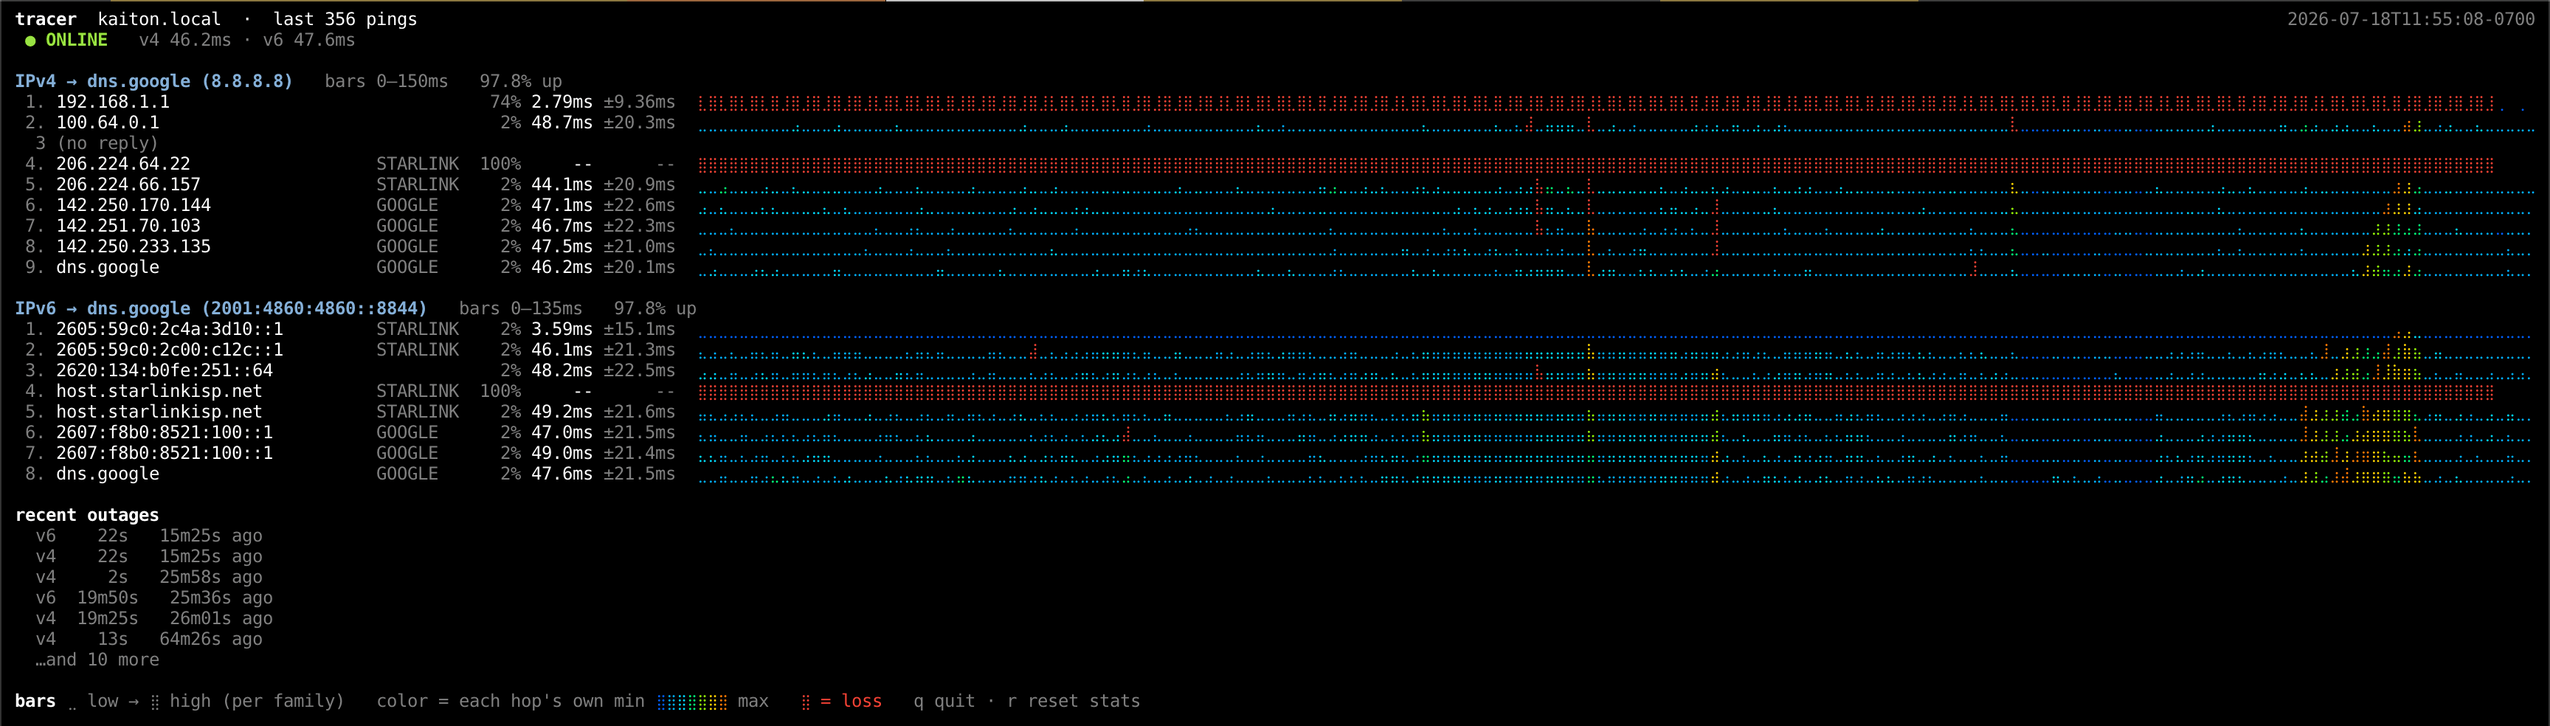
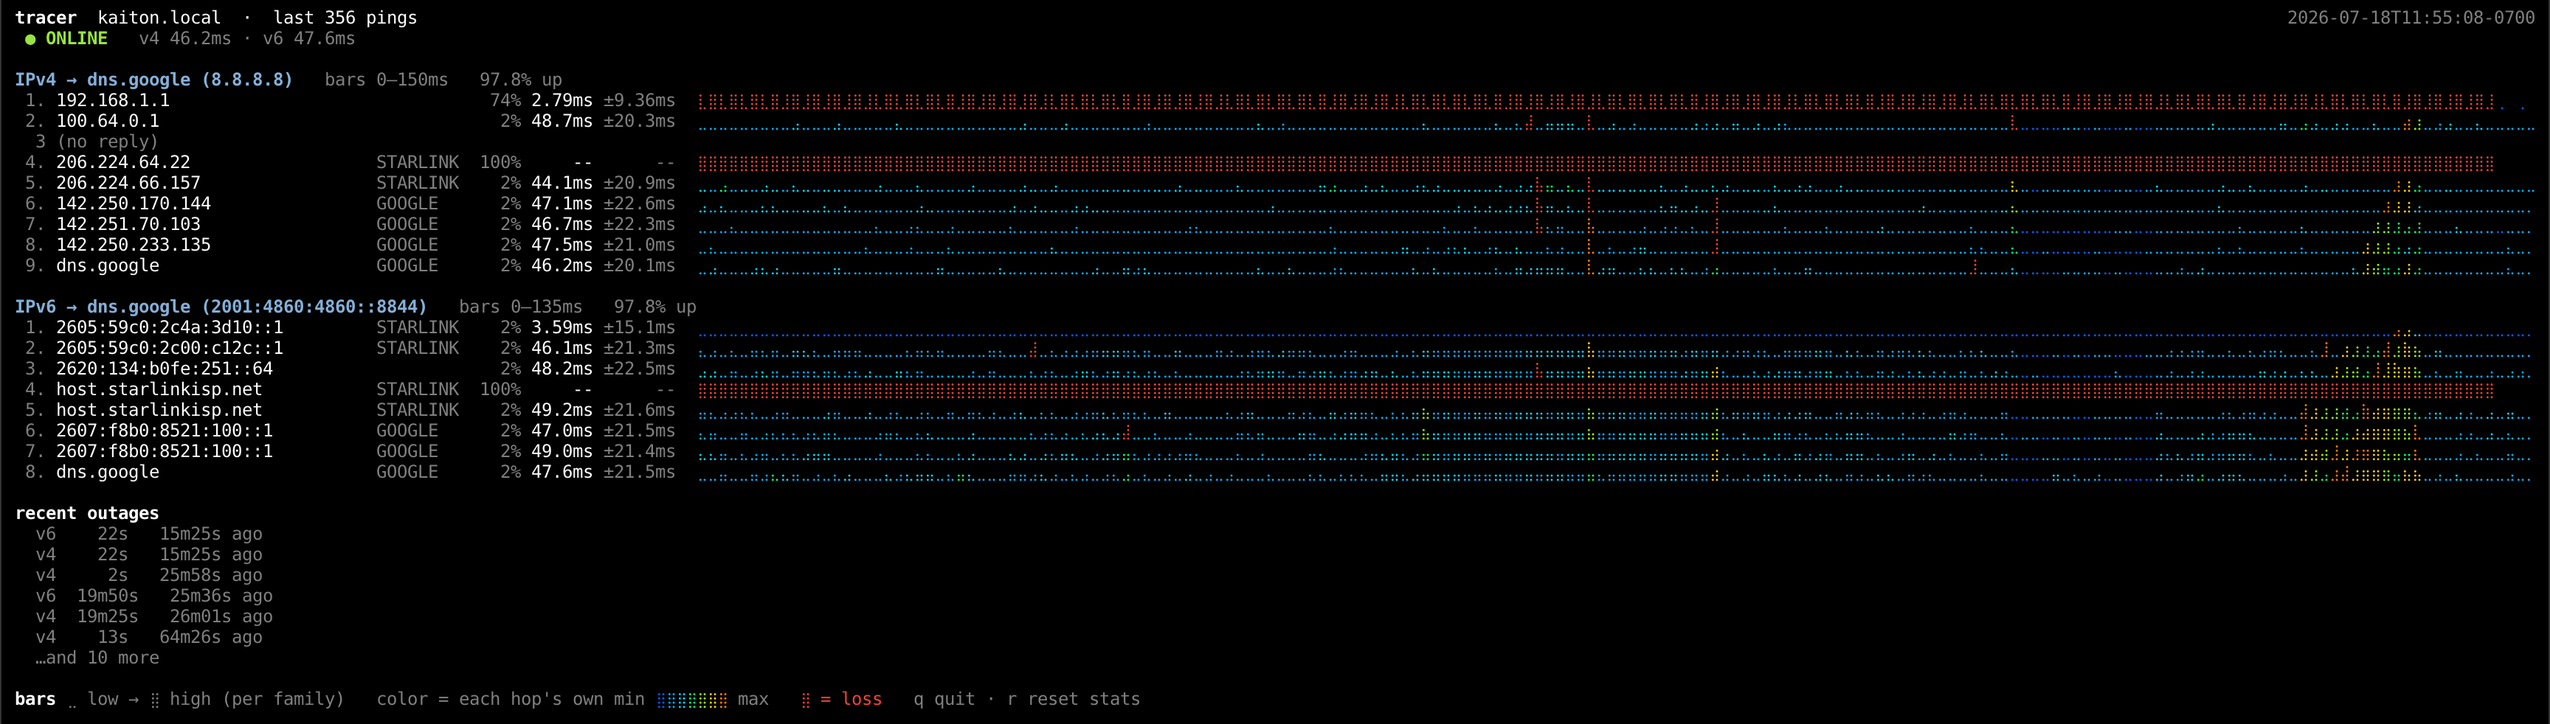
Keep cards compact in independent columns and distinguish tool marks

diff --git a/index.html b/index.html
@@ -92,6 +92,7 @@
     </section>
     <section class="apps" id="apps" aria-label="Apps">
       <div class="grid">
+        <div class="app-column">
         <a class="app knap" href="https://knap.rocks" aria-labelledby="knap-name knap-visit">
           <div class="app-info">
             <div class="app-heading"><img src="/assets/knap-icon.png" width="36" height="36" alt=""><h2 id="knap-name">Knap</h2></div>
@@ -106,17 +107,6 @@
             </picture>
           </figure>
         </a>
-        <a class="app spacebar" href="https://spacebar.tools" aria-labelledby="spacebar-name spacebar-visit">
-          <div class="app-info">
-            <div class="app-heading"><img src="/assets/spacebar-icon.png" width="36" height="36" alt="" loading="lazy"><h2 id="spacebar-name">Spacebar</h2></div>
-            <p class="app-line">Press Space. See inside.</p>
-            <p class="app-description">Quick Look for archives, GPS rides, databases, and the files your Mac won’t preview on its own.</p>
-            <div class="app-footer"><p class="app-meta">macOS Quick Look extensions</p><span class="visit" id="spacebar-visit"><span>spacebar.tools</span><svg aria-hidden="true"><use href="#arrow"/></svg></span></div>
-          </div>
-          <figure class="app-visual">
-            <img src="/assets/spacebar-demo.webp" width="1280" height="734" alt="Spacebar’s website demo showing a list of files inside a compressed archive." loading="lazy" decoding="async">
-          </figure>
-        </a>
         <a class="app tuck" href="https://tuck.bar" aria-labelledby="tuck-name tuck-visit">
           <div class="app-info">
             <div class="app-heading"><img class="tuck-icon" src="/assets/tuck-icon.svg" width="32" height="32" alt="" loading="lazy"><h2 id="tuck-name">Tuck</h2></div>
@@ -126,6 +116,30 @@
           </div>
           <figure class="app-visual">
             <img src="/assets/tuck-demo.webp" width="1440" height="622" alt="Tuck’s illustrated demo with hidden menu bar icons revealed in a tray beneath the chevron." loading="lazy" decoding="async">
+          </figure>
+        </a>
+        <a class="app tracer" href="https://github.com/beaugunderson/tracer" aria-labelledby="tracer-name tracer-visit">
+          <div class="app-info">
+            <div class="app-heading"><img src="/assets/tracer-icon.svg" width="36" height="36" alt="" loading="lazy"><h2 id="tracer-name">Tracer</h2></div>
+            <p class="app-line">See where your connection slows down.</p>
+            <p class="app-description">Continuous traceroute with per-hop latency sparklines, simultaneous IPv4 and IPv6 paths, and a log of recent outages.</p>
+            <div class="app-footer"><p class="app-meta">Mac &amp; Linux · Homebrew</p><span class="visit" id="tracer-visit"><span>GitHub</span><svg aria-hidden="true"><use href="#arrow"/></svg></span></div>
+          </div>
+          <figure class="app-visual">
+            <img src="/assets/tracer.webp" width="3456" height="982" alt="Tracer monitoring dns.google over IPv4 and IPv6, with per-hop latency sparklines, packet loss, and a recent-outages log." loading="lazy" decoding="async">
+          </figure>
+        </a>
+        </div>
+        <div class="app-column">
+        <a class="app spacebar" href="https://spacebar.tools" aria-labelledby="spacebar-name spacebar-visit">
+          <div class="app-info">
+            <div class="app-heading"><img src="/assets/spacebar-icon.png" width="36" height="36" alt="" loading="lazy"><h2 id="spacebar-name">Spacebar</h2></div>
+            <p class="app-line">Press Space. See inside.</p>
+            <p class="app-description">Quick Look for archives, GPS rides, databases, and the files your Mac won’t preview on its own.</p>
+            <div class="app-footer"><p class="app-meta">macOS Quick Look extensions</p><span class="visit" id="spacebar-visit"><span>spacebar.tools</span><svg aria-hidden="true"><use href="#arrow"/></svg></span></div>
+          </div>
+          <figure class="app-visual">
+            <img src="/assets/spacebar-demo.webp" width="1280" height="734" alt="Spacebar’s website demo showing a list of files inside a compressed archive." loading="lazy" decoding="async">
           </figure>
         </a>
         <article class="app upcoming galdra" aria-labelledby="galdra-name">
@@ -146,17 +160,6 @@
             <div class="app-footer"><p class="app-meta">Coming soon · iPhone</p></div>
           </div>
         </article>
-        <a class="app tracer" href="https://github.com/beaugunderson/tracer" aria-labelledby="tracer-name tracer-visit">
-          <div class="app-info">
-            <div class="app-heading"><img src="/assets/tracer-icon.svg" width="36" height="36" alt="" loading="lazy"><h2 id="tracer-name">Tracer</h2></div>
-            <p class="app-line">See where your connection slows down.</p>
-            <p class="app-description">Continuous traceroute with per-hop latency sparklines, simultaneous IPv4 and IPv6 paths, and a log of recent outages.</p>
-            <div class="app-footer"><p class="app-meta">Mac &amp; Linux · Homebrew</p><span class="visit" id="tracer-visit"><span>GitHub</span><svg aria-hidden="true"><use href="#arrow"/></svg></span></div>
-          </div>
-          <figure class="app-visual">
-            <img src="/assets/tracer.webp" width="3456" height="984" alt="Tracer monitoring dns.google over IPv4 and IPv6, with per-hop latency sparklines, packet loss, and a recent-outages log." loading="lazy" decoding="async">
-          </figure>
-        </a>
         <a class="app obliscence" href="https://github.com/beaugunderson/obliscence" aria-labelledby="obliscence-name obliscence-visit">
           <div class="app-info">
             <div class="app-heading"><img src="/assets/obliscence-icon.svg" width="36" height="36" alt="" loading="lazy"><h2 id="obliscence-name">Obliscence</h2></div>
@@ -165,6 +168,7 @@
             <div class="app-footer"><p class="app-meta">Mac · Homebrew</p><span class="visit" id="obliscence-visit"><span>GitHub</span><svg aria-hidden="true"><use href="#arrow"/></svg></span></div>
           </div>
         </a>
+        </div>
       </div>
     </section>
   </main>

diff --git a/scripts/check-site.js b/scripts/check-site.js
@@ -41,7 +41,7 @@ async page => {
       }, null, {timeout:10000});
       const layout = await page.evaluate(() => ({
         overflow: document.documentElement.scrollWidth > innerWidth,
-        compactDesktop: innerWidth < 1280 || document.documentElement.scrollHeight <= 2300,
+        compactDesktop: innerWidth < 1280 || document.documentElement.scrollHeight <= 1850,
         currentKnapCapture: (() => {
           const image = document.querySelector('.knap picture img');
           return image.naturalWidth === (innerWidth <= 650 ? 796 : 1328);
@@ -59,7 +59,17 @@ async page => {
           const padding = parseFloat(getComputedStyle(card).paddingTop) + parseFloat(getComputedStyle(card).paddingBottom);
           return Math.abs(card.getBoundingClientRect().height - info.getBoundingClientRect().height - (visual?.getBoundingClientRect().height || 0) - padding) < 1;
         }),
-        consistentUpcomingGap: innerWidth <= 1100 || Math.abs(document.querySelector('.narrowcast').getBoundingClientRect().top - document.querySelector('.galdra').getBoundingClientRect().bottom - parseFloat(getComputedStyle(document.querySelector('.grid')).rowGap)) < 1,
+        consistentColumnGaps: [...document.querySelectorAll('.app-column')].every(column => {
+          const gap = parseFloat(getComputedStyle(column).rowGap);
+          const cards = [...column.querySelectorAll('.app')];
+          return cards.slice(1).every((card, i) => Math.abs(card.getBoundingClientRect().top - cards[i].getBoundingClientRect().bottom - gap) < 1);
+        }),
+        halfWidthCards: [...document.querySelectorAll('.app')].every(card => {
+          const grid = document.querySelector('.grid');
+          const expected = innerWidth <= 650 ? grid.getBoundingClientRect().width : (grid.getBoundingClientRect().width - parseFloat(getComputedStyle(grid).columnGap)) / 2;
+          return Math.abs(card.getBoundingClientRect().width - expected) < 1;
+        }),
+        croppedTracerCapture: document.querySelector('.tracer .app-visual img').naturalHeight === 982,
         heroFitsDesktop: innerWidth < 1280 || ['#headline','.intro'].every(selector => {
           const el = document.querySelector(selector);
           return el.getBoundingClientRect().height < parseFloat(getComputedStyle(el).lineHeight) * 1.1;
@@ -74,7 +84,7 @@ async page => {
           return i.left < p.left - 1 || i.right > p.right + 1 || i.bottom > (caption ? caption.getBoundingClientRect().top - 5 : p.bottom + 1);
         }).map(img => img.src),
       }));
-      if (layout.overflow || !layout.consistentUpcomingGap || !layout.compactDesktop || !layout.compactToolCards || !layout.tightPreviewSpacing || !layout.currentKnapCapture || !layout.heroFitsDesktop || layout.clippedPreviews.length || layout.missingSymbols || layout.apps.length !== 5 || layout.appCount !== 7 || layout.upcoming.length !== 2 || layout.upcoming.some(app => !app.comingSoon || !app.nonInteractive)) throw new Error(JSON.stringify({theme,width,layout}));
+      if (layout.overflow || !layout.consistentColumnGaps || !layout.halfWidthCards || !layout.croppedTracerCapture || !layout.compactDesktop || !layout.compactToolCards || !layout.tightPreviewSpacing || !layout.currentKnapCapture || !layout.heroFitsDesktop || layout.clippedPreviews.length || layout.missingSymbols || layout.apps.length !== 5 || layout.appCount !== 7 || layout.upcoming.length !== 2 || layout.upcoming.some(app => !app.comingSoon || !app.nonInteractive)) throw new Error(JSON.stringify({theme,width,layout}));
       results.push({theme,width,layout:'pass'});
       if ([390,1280].includes(width)) {
         const audit = await page.evaluate(async () => {

diff --git a/styles.css b/styles.css
@@ -15,7 +15,8 @@ h1 { margin: 0; font-size: clamp(38px, 4.5vw, 56px); font-weight: 600; line-heig
 .intro { font-size: 18px; line-height: 1.6; color: var(--muted); margin: 16px 0 0; letter-spacing: -.012em; }
 .hero-art { margin: 0; }
 .hero-art svg { width: 136px; height: 136px; }
-.grid { display: grid; grid-template-columns: repeat(2, minmax(0, 1fr)); grid-template-rows: auto min-content 1fr; gap: 24px; align-items: start; }
+.grid { display: grid; grid-template-columns: repeat(2, minmax(0, 1fr)); gap: 24px; align-items: start; }
+.app-column { display: flex; flex-direction: column; min-width: 0; gap: 24px; }
 .app { display: flex; flex-direction: column; min-width: 0; padding: 20px; border-radius: 14px; background: var(--panel); color: var(--ink); text-decoration: none; }
 a.app:focus-visible { border-radius: 14px; }
 a.app:hover { color: var(--ink); }
@@ -39,20 +40,17 @@ a.app:hover .visit span { text-decoration: underline; text-underline-offset: 4px
 .knap picture img { width: auto; height: auto; max-height: 320px; }
 .knap .app-info, .tuck .app-info { padding-top: 12px; }
 .spacebar .app-visual img { border-radius: 10px; }
-.tuck { grid-column: 1; grid-row: 2 / span 2; }
 .tuck .app-visual img { width: 100%; height: auto; border-radius: 10px; }
 .upcoming .app-meta { color: var(--accent); }
-.galdra { grid-column: 2; grid-row: 2; display: grid; grid-template-columns: minmax(0, 1fr) 250px; gap: 20px; align-items: center; }
+.galdra { display: grid; grid-template-columns: minmax(0, 1fr) 250px; gap: 20px; align-items: center; }
 .galdra .app-info { padding: 0; }
 .galdra .app-line { font-size: 17px; }
 .galdra .app-description { font-size: 13px; }
 .galdra .app-visual { order: 0; height: auto; padding: 0; }
 .galdra .app-visual img { width: 100%; height: auto; border-radius: 10px; }
 .galdra .app-footer { margin-top: 12px; }
-.narrowcast { grid-column: 2; grid-row: 3; }
 .narrowcast .app-info { padding: 0; }
 .narrowcast .app-description { margin-top: 10px; }
-.tracer, .obliscence { grid-column: 1 / -1; }
 .tracer .app-visual { height: auto; }
 .tracer .app-visual img { width: 100%; height: auto; border-radius: 10px; }
 .tracer .app-description, .obliscence .app-description { max-width: 75ch; }
@@ -63,17 +61,14 @@ footer { display: grid; grid-template-columns: minmax(0, 1fr) auto; align-items:
 .copyright { margin: 0; font-size: 12px; line-height: 1.7; white-space: nowrap; }
 footer a { text-decoration-color: currentColor; padding-block: 10px; }
 @media (max-width: 1100px) {
-  .grid { grid-template-rows: none; gap: 24px; }
   .app-visual { height: 280px; }
   .knap picture img { max-height: 280px; }
-  .tuck, .galdra, .narrowcast { grid-row: auto; grid-column: auto; }
   .galdra { display: flex; }
   .galdra .app-info { padding: 17px 2px 0; }
   .galdra .app-visual { order: -1; height: 280px; }
   .galdra .app-visual img { width: auto; height: 100%; }
   .galdra .app-line { font-size: 18px; }
   .galdra .app-description { font-size: 14px; }
-  .narrowcast { grid-column: 1 / -1; }
 }
 @media (max-width: 900px) {
   .wrap { width: calc(100% - 48px); }
@@ -94,6 +89,7 @@ footer a { text-decoration-color: currentColor; padding-block: 10px; }
   h1 { font-size: clamp(36px, 8vw, 44px); }
   .intro { font-size: 16px; margin-top: 14px; }
   .grid { grid-template-columns: 1fr; gap: 20px; }
+  .app-column { gap: 20px; }
   .app { padding: 18px; }
   .app-visual { height: auto; }
   .app-visual img { width: 100%; height: auto; }

diff --git a/README.md b/README.md
@@ -3,7 +3,7 @@
 The Bergknapp Softworks site: one static page linking to Knap, Spacebar, Tuck, Tracer, and Obliscence, with coming-soon entries for Galdra and Narrowcast. No build step; Netlify publishes the repo root.
 
 - `index.html` — the page, inline palette, and rosette SVG `<symbol>`.
-- `styles.css` — the responsive gallery layout. Subtle spruce backgrounds group each app, without border outlines or horizontal separators. The Galdra grid track is content-sized so Tuck’s spanning card cannot inflate the gap above Narrowcast. Galdra and Narrowcast share the right column beside Tuck on wide screens; smaller screens follow the document order. Tracer and Obliscence follow as full-width cards, keeping Tracer’s wide terminal screenshot readable and Obliscence text-only.
+- `styles.css` — the responsive gallery layout. Subtle spruce backgrounds group each app, without border outlines or horizontal separators. Two independent, equal-width columns keep every card half-width on desktop and every vertical gap at 24px, regardless of the neighboring card’s height. Left: Knap, Tuck, Tracer. Right: Spacebar, Galdra, Narrowcast, Obliscence. Phones stack the columns in document order with 20px gaps, keeping visual and keyboard order aligned. No full-width tool cards or shared grid rows that trap space below shorter cards.
 - `favicon.svg` — the same mark with a `prefers-color-scheme` palette swap. Generated from the page by `scripts/sync-logo.py`. `icon-*.png`, `apple-touch-icon.png`, and `favicon.png` are light-palette rasters of it.
 - `og.html` → `og.png` — the 1200×630 social card. Regenerate by serving the folder and screenshotting `og.html` at 1200×630 (`playwright-cli open`, `resize 1200 630`, `screenshot`).
 
@@ -35,10 +35,10 @@ Keep browser screenshots and exploration pages outside the publish root.
 - **Spacebar:** a capture of the archive demo’s `.panel` in `../spacebar-website/index.html`, rendered in light mode at 2×. This is website demo artwork, not a native application screenshot; its alt text identifies it as a demo.
 - **Tuck:** a capture of the illustrated `.desktop` demo in `../tuck/site/`, with the tray open. Captured at 720×311 CSS pixels, 2×, with the theme picker hidden. Its alt text identifies it as an illustrated demo. Neither preview has a visible caption. Tuck’s preview follows its natural aspect ratio with a 12px gap before the heading; don’t restore a fixed-height preview box.
 - **Galdra:** an actual iPad simulator capture of the main session picker in `../singing-bowls/`. `galdra-choices.webp` crops the title and five complete choices with their descriptions (1668×2420 source; crop `24,80,856,958`, producing 832×878). This replaces the less-informative abstract room view. It is a cropped real screen, not reconstructed UI. Its app icon comes from the iOS asset catalog.
-- **Tracer:** the screenshot from [its README](https://github.com/beaugunderson/tracer), `docs/screenshot.png`, converted without resizing to lossless WebP (3456×984). Refresh with `curl -fLsS https://raw.githubusercontent.com/beaugunderson/tracer/HEAD/docs/screenshot.png -o /tmp/bergknapp-tracer-source.png` and `cwebp -lossless /tmp/bergknapp-tracer-source.png -o assets/tracer.webp`.
+- **Tracer:** the screenshot from [its README](https://github.com/beaugunderson/tracer), `docs/screenshot.png`, converted to lossless WebP with the stray top two pixel rows removed (3456×982). Refresh with `curl -fLsS https://raw.githubusercontent.com/beaugunderson/tracer/HEAD/docs/screenshot.png -o /tmp/bergknapp-tracer-source.png` and `cwebp -lossless -crop 0 2 3456 982 /tmp/bergknapp-tracer-source.png -o assets/tracer.webp`.
 - **Obliscence:** intentionally text-only. Copy explicitly names both Claude Code and pi; the card links to its GitHub repo.
 - **Narrowcast:** app icon from `../podcast-roulette/ios/Narrowcast/Assets.xcassets/`. The coming-soon card describes the taste-based podcast station and offline playback; no download or signup is available here yet.
-- **Tool logomarks:** `assets/tracer-icon.svg` (a branching route with network hops) and `assets/obliscence-icon.svg` (overlapping conversations) are the reusable originals, drawn on 64×64 viewboxes in the Blue spruce palette. Both appear at 36px in card headings. Every card has a logomark; a screenshot is optional.
+- **Tool logomarks:** `assets/tracer-icon.svg` (a branching route with network hops) and `assets/obliscence-icon.svg` (overlapping conversations) are the reusable originals, drawn on 64×64 viewboxes. These are independent product identities, not Bergknapp-themed marks: Tracer uses cyan `#00b2ff`, yellow `#ffd500`, and packet-loss red `#f54234` sampled from its screenshot, on near-black. Obliscence uses ink blue, lilac, and pale lavender. Both appear at 36px in card headings. Every card has a logomark; a screenshot is optional.
 - Other app icons come from the corresponding sites or app asset catalogs. Don’t draw substitute interfaces or expose personal app data in screenshots.
 
 Galdra main-screen capture: locate its simulator data container, shut the device down, back up `Library/Preferences/com.beaugunderson.galdra.plist`, and set its `onboarded` boolean to true. Boot and launch without `--autoplay`. Restore the original plist with the simulator stopped afterward. Editing that file while simulator `cfprefsd` is running can be ignored; `-onboarded YES` alone did not bypass onboarding in the available build. Main-screen capture needs no motion permission.

diff --git a/CLAUDE.md b/CLAUDE.md
@@ -2,8 +2,8 @@
 
 Static one-page site for Bergknapp Softworks at https://bergknapp.works, hosted on Netlify (project `bergknapp-works`) and deployed from `main` of `beaugunderson/bergknapp-website`. `netlify.toml` publishes the repo root; no build.
 
-- Keep the page a directory: one card per released app or CLI tool pointing at its own site (knap.rocks, spacebar.tools, tuck.bar) or GitHub repo (Tracer, Obliscence). Galdra and Narrowcast have explicitly requested coming-soon cards; keep those non-interactive until there's a real destination or signup flow. Product detail lives on the app sites or READMEs, not here. Use Tracer’s README screenshot; keep Obliscence screenshot-free and explicitly say it works with both Claude Code and pi. Every card has a logomark; Tracer and Obliscence’s reusable originals are `assets/tracer-icon.svg` and `assets/obliscence-icon.svg`.
-- Keep the layout compact: use subtle spruce backgrounds to group each app, without border outlines, horizontal dividers, or oversized empty image/text panels. Prefer informative app UI captures; Galdra should show session choices and descriptions, not just the abstract room. Keep gaps between entries consistent, and omit visible image captions (identify illustrative demos in alt text instead).
+- Keep the page a directory: one card per released app or CLI tool pointing at its own site (knap.rocks, spacebar.tools, tuck.bar) or GitHub repo (Tracer, Obliscence). Galdra and Narrowcast have explicitly requested coming-soon cards; keep those non-interactive until there's a real destination or signup flow. Product detail lives on the app sites or READMEs, not here. Use Tracer’s README screenshot; keep Obliscence screenshot-free and explicitly say it works with both Claude Code and pi. Every card has a logomark; Tracer and Obliscence’s reusable originals are `assets/tracer-icon.svg` and `assets/obliscence-icon.svg`. Product marks have their own identities, not the Bergknapp spruce palette: Tracer uses its app’s cyan/yellow/red chart colors; Obliscence uses ink blue and lilac.
+- Keep the layout compact: use subtle spruce backgrounds to group each app, without border outlines, horizontal dividers, or oversized empty image/text panels. Prefer informative app UI captures; Galdra should show session choices and descriptions, not just the abstract room. Keep every card half-width on desktop in independent columns, with consistent gaps instead of shared rows that trap whitespace; stack on phones. Keep Tracer’s screenshot cropped by 2px at the top to remove the stray colored edge, and omit visible image captions (identify illustrative demos in alt text instead).
 - Copy stays short and in Beau's voice. Add a card when software is ready to distribute, even if its destination is a GitHub repo rather than a dedicated site; drop the card when it goes away. Keep the headline restrained and sans-serif throughout; no contrasting italic-serif or accent-colored second line.
 - Use a dark spruce background even in light OS mode. No top navigation (including About), "The apps" heading/tagline, logo caption, location/byline, personal GitHub, or "Say hello" links. Product GitHub links are fine. Keep the name explanation without a heading or pronunciation. Give the hero text enough width to stay on single lines on desktop; allow natural wrapping on smaller screens. Beau's name appears once in the visible page, linked to his personal website in the footer; don't display the domain as a separate link.
 - The mark is a top-down stonecrop (sedum) rosette, no rock, in the Blue spruce palette. Each leaf ring has a distinct brightness range. `index.html` owns the `<symbol id="rosette">` and light/dark CSS colors; run `python3 scripts/sync-logo.py` to update `favicon.svg` and the mark in `og.html`, then regenerate PNGs per the README. Keep the approved geometry unless Beau asks to change it.
